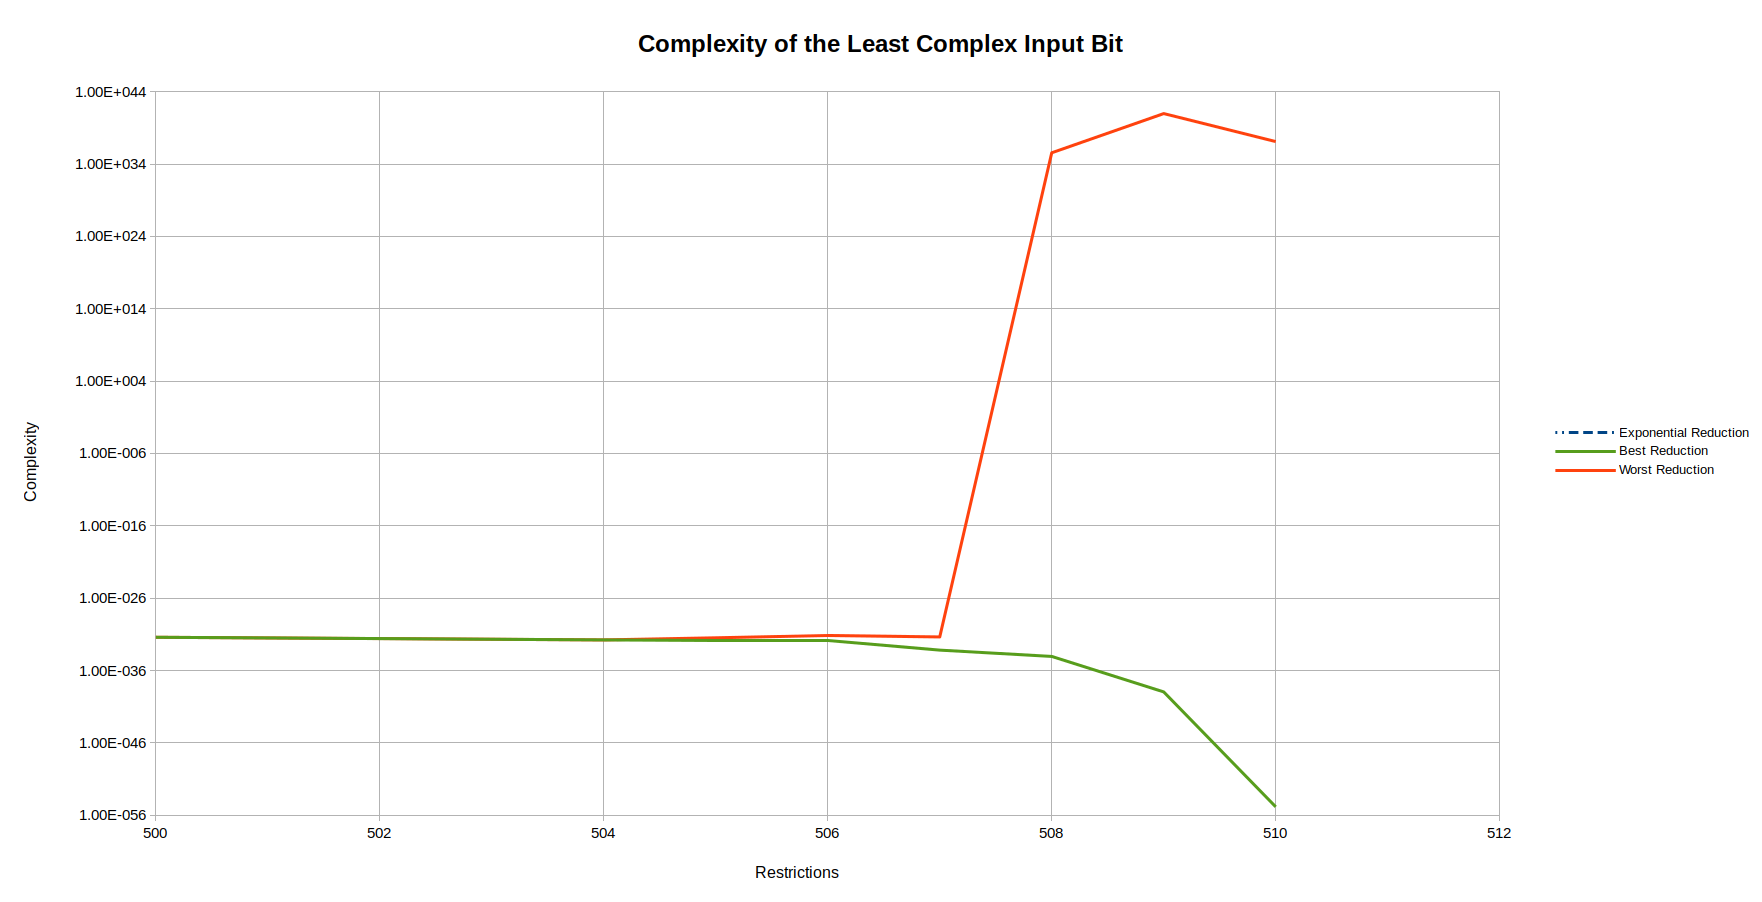
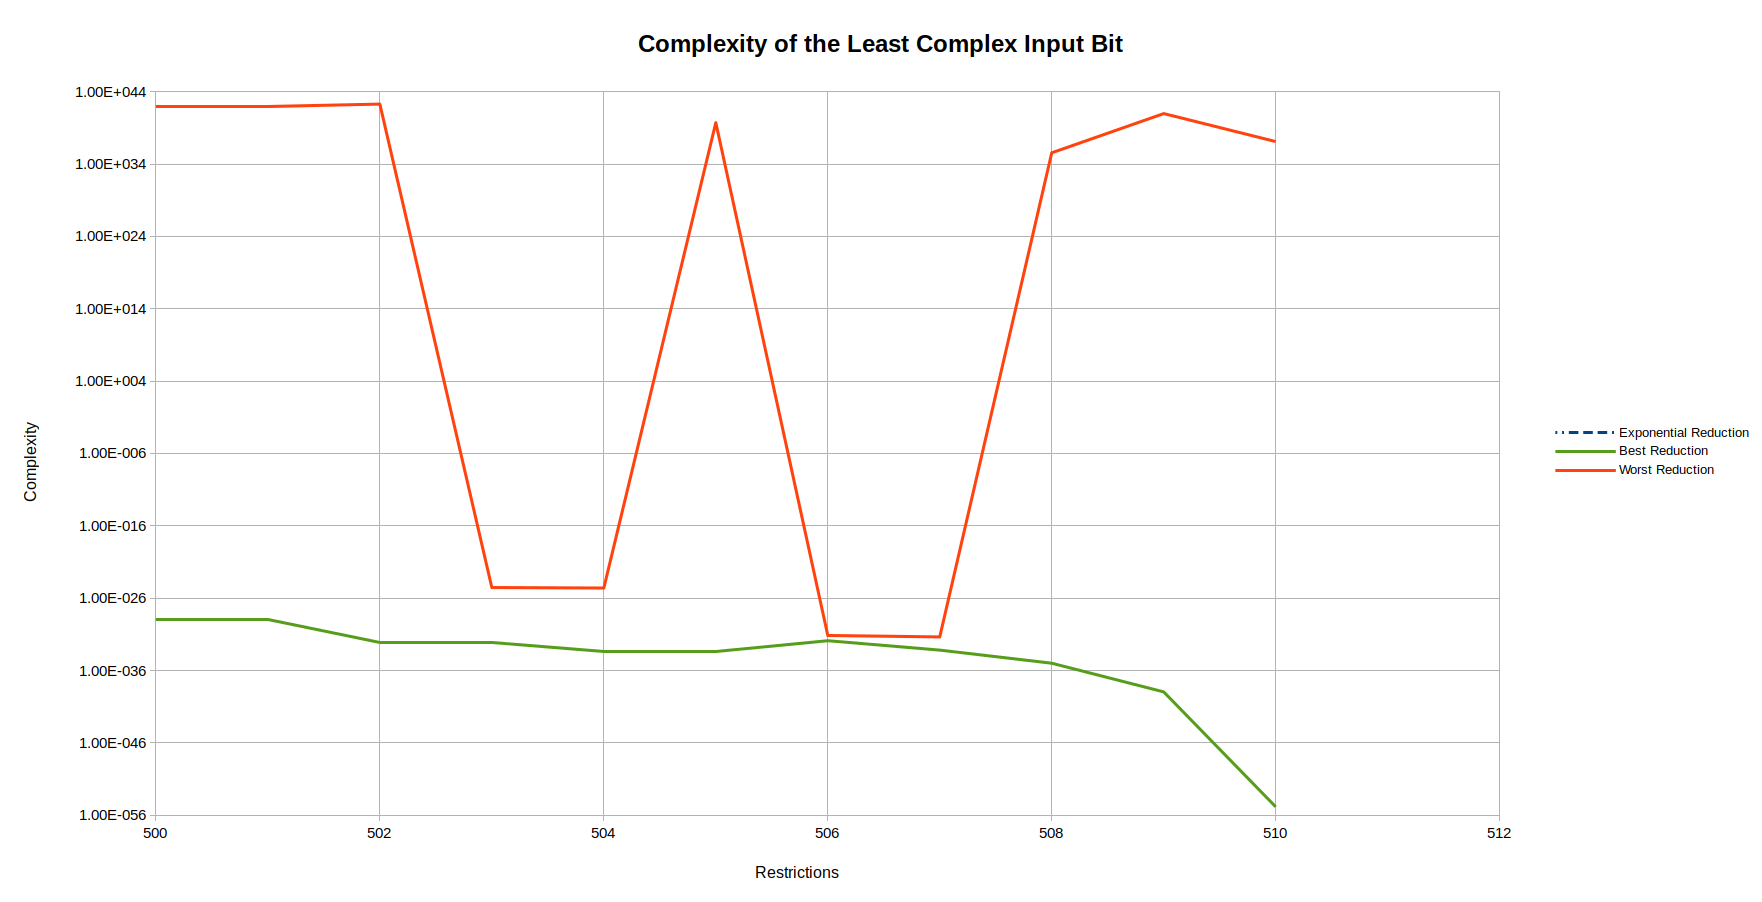
Updated the results page

diff --git a/results/Overview.md b/results/Overview.md
@@ -58,10 +58,17 @@ Results better than the linear reduction are marked in bold.
 |       0      | 4,060            | 4,060          | 4,060           |
 |       1      | 4,052            | 4,060          | 4,060           |
 |      65      | 3,544            | 4,059          | 4,059           |
-|     507      |    32            | 4,054          | 4,054           |
-|     508      |    24            | 4,075          | 4,556           |
-|     509      |    16            | 4,059          | 5,046           |
-|     510      |     8            | 3,892          | 5,189           |
+| 501 | 79 | 3,934 | 4,356 |
+| 502 | 72 | 3,918 | 4,203 |
+| 503 | 64 | 3,918 | 3,979 |
+| 504 | 56 | 3,919 | 4,012 |
+| 505 | 48 | 3,920 | 4,550 |
+| 506 | 40 | 3,994 | 4,055 |
+| 507 | 32 | 4,044 | 4,112 |
+| 508 | 24 | 4,032 | 4,556 |
+| 509 | 16 | 4,059 | 5,046 |
+| 510 | 8 | 3,892 | 5,189 |
+| 511 | 0 | 63 | 95 |
 |     511      |  0	              | [63](511/91eaaf8008a6bd389e724be1212f62e51a13e84d.md) | 95              |
 
 ![Lowest Number of Direct Occurrences](Lowest_Number_of_Direct_Occurrences.png "Lowest Number of Direct Occurrences")
@@ -132,14 +139,17 @@ Results better than the exponential reduction are marked in bold.
 | 0 | 2.618×10^327 | 2.618×10^327 | 2.618×10^327 |
 | 1 | 5.986×10^326 | 2.618×10^327 | 2.618×10^327 |
 | 65 | 5.886×10^285 | 1.299×10^336 | 1.299×10^336 |
-| 504 | 2.587×10^4 | 4.489×10^295 | 4.489×10^295 |
-| 505 |  | 3.244×10^295 | 8.771×10^295 |
-| 506 |  | 3.888×10^295 | 1.836×10^296 |
-| 507 |  | 1.759×10^294 | 1.169×10^296 |
-| 508 |  | 2.357×10^293 | 9.300×10^362 |
-| 509 |  | 2.939×10^288 | 2.423×10^368 |
-| 510 |  | 3.900×10^272 | 3.300×10^364 |
-| 511 |  | 6.700×10^1 | 9.500×10^1 |
+| 501 | 2.548×10^6 | 2.573×10^298 | 2.560×10^369 |
+| 502 | 5.820×10^5 | 2.159×10^295 | 4.953×10^369 |
+| 503 | 1.293×10^5 | 1.812×10^295 | 7.816×10^302 |
+| 504 | 2.587×10^4 | 1.228×10^294 | 6.681×10^302 |
+| 505 | 6.058×10^3 | 9.897×10^293 | 1.353×10^367 |
+| 506 | 1.419×10^3 | 3.483×10^295 | 1.836×10^296 |
+| 507 | 3.323×10^2 | 1.759×10^294 | 1.169×10^296 |
+| 508 | 7.783×10^1 | 2.702×10^292 | 9.300×10^362 |
+| 509 | 1.823×10^1 | 2.939×10^288 | 2.423×10^368 |
+| 510 | 4.270×10^0 | 3.900×10^272 | 3.300×10^364 |
+| 511 | 1.000×10^0 | 6.700×10^1 | 9.500×10^1 |
 
 ![Least Complex Input Bit](Least_Complex_Input_Bit.png "Least Complex Input Bit")
 
@@ -244,11 +254,14 @@ Results better than the linear reduction are marked in bold.
 |       0      | 47,947           | 47,947         | 47,947          |
 |       1      | 47,853           | 47,947         | 47,947          |
 |      65      | 41,848           | **24,116**     | **24,116**      |
-| 504 | 657 | 30,670 | 30,670 |
-| 505 | 563 | 30,622 | 30,665 |
-| 506 | 469 | 30,535 | 30,656 |
+| 501 | 938 | 31,442 | 39,598 |
+| 502 | 844 | 31,103 | 39,554 |
+| 503 | 751 | 31,072 | 31,606 |
+| 504 | 657 | 30,670 | 31,333 |
+| 505 | 563 | 30,333 | 38,550 |
+| 506 | 469 | 30,299 | 30,656 |
 | 507 | 375 | 30,061 | 30,543 |
-| 508 | 281 | 29,828 | 37,806 |
+| 508 | 281 | 29,698 | 37,806 |
 | 509 | 188 | 29,411 | 38,035 |
 | 510 | 94 | 27,700 | 37,558 |
 | 511 | 0 | 0 | 0 |
